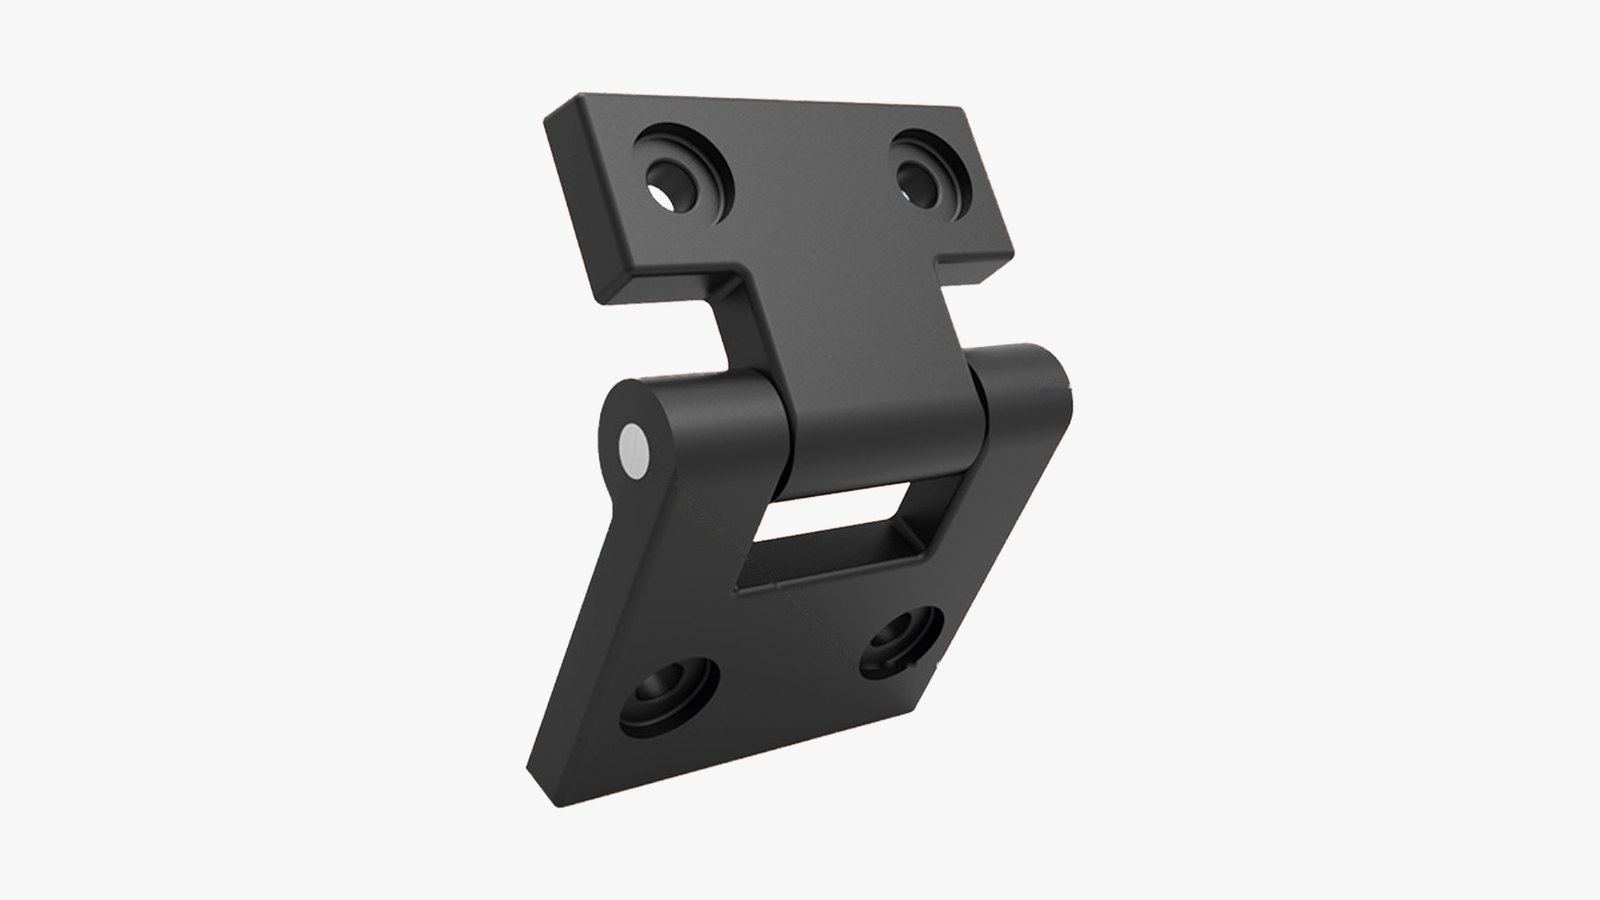
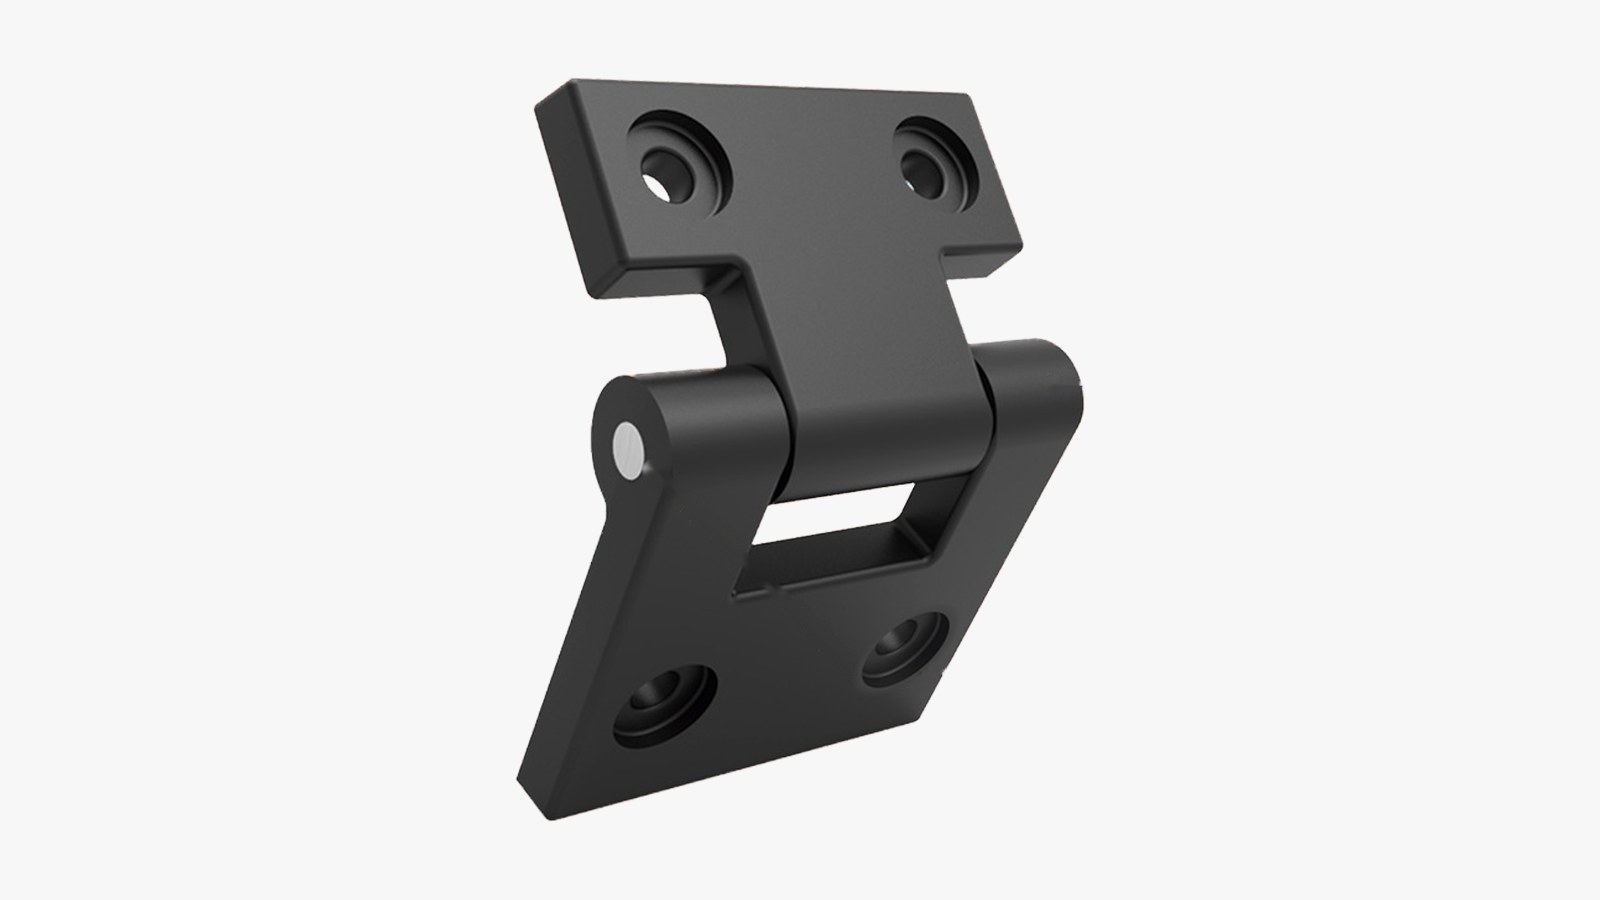
Bisagra: render sin el detalle roto y título «Bisagra de poliamida»
Claude-Session: https://claude.ai/code/session_01638GQR5QWwYxM8MmgUFgoU

diff --git a/proyectos/bisagra.html b/proyectos/bisagra.html
@@ -4,9 +4,9 @@
 <meta charset="utf-8">
 <meta name="viewport" content="width=device-width, initial-scale=1">
 <script>(function(){var l;try{l=localStorage.getItem('lang')}catch(e){}if(l!=='es'&&l!=='en'){l=/^es/i.test(navigator.language||'es')?'es':'en'}document.documentElement.setAttribute('data-lang',l);document.documentElement.setAttribute('lang',l)})();</script>
-<title>Bisagra para casillas — Lisandro Murúa Asis</title>
+<title>Bisagra de poliamida — Lisandro Murúa Asis</title>
 <meta name="description" content="Bisagra para las casillas que fabrica Moldear, diseñada para inyectarse en poliamida reforzada con fibra de vidrio. Un único modelo es compatible con los cinco modelos de casillas existentes en la empresa.">
-<meta property="og:title" content="Hinge for equipment housings · Lisandro Murúa Asis">
+<meta property="og:title" content="Polyamide hinge · Lisandro Murúa Asis">
 <meta property="og:description" content="Hinge for the housings Moldear manufactures, designed to be injection molded in glass-fiber-reinforced polyamide. A single model fits all five housing models the company produces.">
 <meta property="og:type" content="article">
 <meta property="og:image" content="https://lisandromurua.vercel.app/assets/img/bisagra/principal.jpg">
@@ -19,8 +19,8 @@
 <script data-goatcounter="https://lisandromuruaweb.goatcounter.com/count" async src="//gc.zgo.at/count.js"></script>
 </head>
 <body
-  data-title-es="Bisagra para casillas — Lisandro Murúa Asis"
-  data-title-en="Hinge for equipment housings — Lisandro Murúa Asis"
+  data-title-es="Bisagra de poliamida — Lisandro Murúa Asis"
+  data-title-en="Polyamide hinge — Lisandro Murúa Asis"
   data-desc-es="Bisagra para las casillas que fabrica Moldear, diseñada para inyectarse en poliamida reforzada con fibra de vidrio. Un único modelo es compatible con los cinco modelos de casillas existentes en la empresa."
   data-desc-en="Hinge for the housings Moldear manufactures, designed to be injection molded in glass-fiber-reinforced polyamide. A single model fits all five housing models the company produces.">
 
@@ -53,7 +53,7 @@
   <section class="cs-intro">
     <div class="cs-intro__text">
       <p class="eyebrow"><span class="dot"></span><span data-l="es">Moldes y composites · Moldear</span><span data-l="en">Molds and composites · Moldear</span></p>
-      <h1 class="h1 h1--page"><span data-l="es">Bisagra para casillas</span><span data-l="en">Hinge for equipment housings</span></h1>
+      <h1 class="h1 h1--page"><span data-l="es">Bisagra de poliamida</span><span data-l="en">Polyamide hinge</span></h1>
       <p class="lead" data-l="es">Bisagra para las casillas que fabrica Moldear, diseñada para inyectarse en poliamida reforzada con fibra de vidrio. Un único modelo es compatible con los cinco modelos de casillas existentes en la empresa.</p>
       <p class="lead" data-l="en">Hinge for the housings Moldear manufactures, designed to be injection molded in glass-fiber-reinforced polyamide. A single model fits all five housing models the company produces.</p>
     </div>

diff --git a/index.html b/index.html
@@ -181,7 +181,7 @@
         <div class="project__img"><img class="cover" src="assets/img/bisagra/principal.jpg" alt="Render de la bisagra para casillas" loading="lazy"></div>
         <div class="project__body">
           <span class="label">Moldear · Casillas</span>
-          <h3 class="h3"><span data-l="es">Bisagra para casillas</span><span data-l="en">Hinge for equipment housings</span></h3>
+          <h3 class="h3"><span data-l="es">Bisagra de poliamida</span><span data-l="en">Polyamide hinge</span></h3>
           <p data-l="es">Bisagra inyectada en poliamida con fibra de vidrio, compatible con los cinco modelos de casillas.</p>
           <p data-l="en">Injection molded glass-fiber polyamide hinge that fits all five housing models.</p>
           <span class="project__more"><span data-l="es">Ver caso →</span><span data-l="en">View case →</span></span>

diff --git a/proyectos/caballete.html b/proyectos/caballete.html
@@ -124,7 +124,7 @@
   <nav class="next" aria-label="Siguiente proyecto">
     <a href="bisagra.html">
       <span class="label"><span data-l="es">Siguiente proyecto</span><span data-l="en">Next project</span></span>
-      <span class="h2"><span data-l="es">Bisagra para casillas →</span><span data-l="en">Hinge for equipment housings →</span></span>
+      <span class="h2"><span data-l="es">Bisagra de poliamida →</span><span data-l="en">Polyamide hinge →</span></span>
     </a>
   </nav>
 </main>
